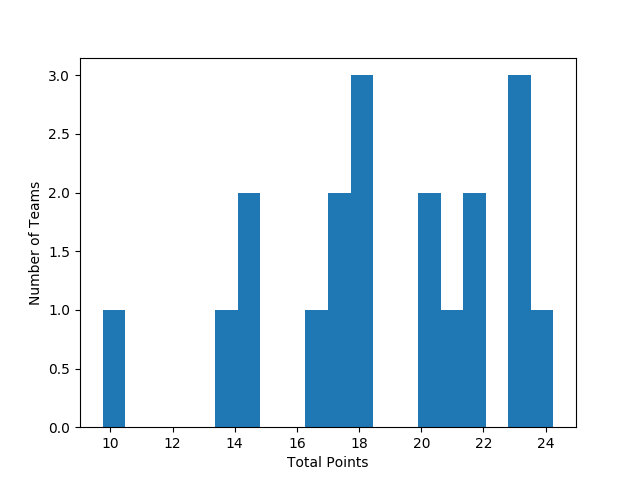
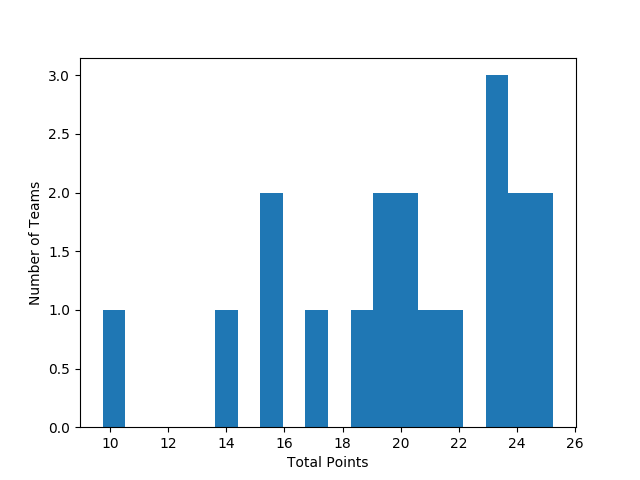
2021-2022 Bowl Pool - KSU vs. LSU and B3,B4 added

Changed region(s): [[0.375, 0.1562, 0.9062, 0.9375], [0.3438, 0.9062, 0.375, 0.9375], [0.25, 0.9062, 0.2812, 0.9375]]

diff --git a/bowl_pool/2021-2022/results.html b/bowl_pool/2021-2022/results.html
@@ -918,6 +918,31 @@ ul.auto-toc {
 <td>0.0</td>
 <td>0.0</td>
 </tr>
+<tr><td>21</td>
+<td>TEXAS BOWL</td>
+<td>Kansas State</td>
+<td>LSU</td>
+<td>3.5</td>
+<td>1.0</td>
+<td>1.0</td>
+<td>1.0</td>
+<td>1.0</td>
+<td>0.0</td>
+<td>0.0</td>
+<td>0.0</td>
+<td>1.0</td>
+<td>1.0</td>
+<td>1.0</td>
+<td>0.0</td>
+<td>1.0</td>
+<td>1.0</td>
+<td>0.0</td>
+<td>1.0</td>
+<td>0.0</td>
+<td>1.0</td>
+<td>0.0</td>
+<td>0.0</td>
+</tr>
 <tr><td>B1</td>
 <td>Who will win the National Championship?</td>
 <td>&nbsp;</td>
@@ -962,11 +987,11 @@ ul.auto-toc {
 <td>0.0</td>
 <td>0.0</td>
 <td>0.0</td>
+<td>1.0</td>
 <td>0.0</td>
 <td>0.0</td>
 <td>0.0</td>
-<td>0.0</td>
-<td>0.0</td>
+<td>1.0</td>
 </tr>
 <tr><td>B3</td>
 <td>Will Baylor hold Ole Miss to under their season average of 36 points?</td>
@@ -999,7 +1024,7 @@ ul.auto-toc {
 <td>&nbsp;</td>
 <td>&nbsp;</td>
 <td>0.0</td>
-<td>0.0</td>
+<td>1.0</td>
 <td>0.0</td>
 <td>0.0</td>
 <td>0.0</td>
@@ -1027,17 +1052,17 @@ ul.auto-toc {
 <td>0.0</td>
 <td>0.0</td>
 <td>0.0</td>
+<td>1.0</td>
+<td>1.0</td>
+<td>1.0</td>
+<td>1.0</td>
+<td>0.0</td>
+<td>1.0</td>
 <td>0.0</td>
 <td>0.0</td>
 <td>0.0</td>
-<td>0.0</td>
-<td>0.0</td>
-<td>0.0</td>
-<td>0.0</td>
-<td>0.0</td>
-<td>0.0</td>
-<td>0.0</td>
-<td>0.0</td>
+<td>1.0</td>
+<td>1.0</td>
 <td>0.0</td>
 <td>0.0</td>
 <td>0.0</td>
@@ -1073,25 +1098,25 @@ ul.auto-toc {
 <td>&nbsp;</td>
 <td>&nbsp;</td>
 <td>&nbsp;</td>
-<td><strong>23.25</strong></td>
-<td><strong>23.25</strong></td>
-<td><strong>22.0</strong></td>
-<td><strong>20.0</strong></td>
-<td><strong>14.5</strong></td>
-<td><strong>20.5</strong></td>
-<td><strong>18.25</strong></td>
-<td><strong>21.25</strong></td>
 <td><strong>24.25</strong></td>
-<td><strong>18.0</strong></td>
-<td><strong>13.75</strong></td>
-<td><strong>17.5</strong></td>
-<td><strong>22.0</strong></td>
-<td><strong>14.75</strong></td>
-<td><strong>17.5</strong></td>
-<td><strong>16.75</strong></td>
+<td><strong>25.25</strong></td>
 <td><strong>23.0</strong></td>
+<td><strong>21.0</strong></td>
+<td><strong>15.5</strong></td>
+<td><strong>21.5</strong></td>
+<td><strong>19.25</strong></td>
+<td><strong>23.25</strong></td>
+<td><strong>25.25</strong></td>
+<td><strong>20.0</strong></td>
+<td><strong>13.75</strong></td>
+<td><strong>18.5</strong></td>
+<td><strong>23.0</strong></td>
+<td><strong>15.75</strong></td>
+<td><strong>20.5</strong></td>
+<td><strong>16.75</strong></td>
+<td><strong>24.0</strong></td>
 <td><strong>9.75</strong></td>
-<td><strong>18.25</strong></td>
+<td><strong>19.25</strong></td>
 </tr>
 </tbody>
 </table>

diff --git a/bowl_pool/2021-2022/rankings.html b/bowl_pool/2021-2022/rankings.html
@@ -364,27 +364,27 @@ ul.auto-toc {
 
 
 <div class="line-block">
-<div class="line"><em>Last updated:  2022-01-05 10:43:37</em></div>
-<div class="line"><em>Last bowl scored:  SUGAR BOWL (Ole Miss vs. Baylor)</em></div>
+<div class="line"><em>Last updated:  2022-01-05 10:49:11</em></div>
+<div class="line"><em>Last bowl scored:  TEXAS BOWL (Kansas State vs. LSU)</em></div>
 </div>
 <div class="line-block">
-<div class="line">1. <strong>GlamKam 24.25</strong></div>
-<div class="line">2. <strong>#RealMamaBear 23.25</strong></div>
-<div class="line">2. <strong>Bear-in-Law 23.25</strong></div>
-<div class="line">4. <strong>The Dood 23.0</strong></div>
-<div class="line">5. Blue Orred 22.0</div>
-<div class="line">5. Panda 22.0</div>
-<div class="line">7. Gigi 21.25</div>
-<div class="line">8. <strong>Can't Stop a Badger! 20.5</strong></div>
-<div class="line">9. Bopper 20.0</div>
-<div class="line">10. D-Bo 18.25</div>
-<div class="line">10. TransferPortal 18.25</div>
-<div class="line">12. Knights of Ren 18.0</div>
-<div class="line">13. Ms. Snuffleupagus 17.5</div>
-<div class="line">13. Sweet Lou 17.5</div>
+<div class="line">1. <strong>Bear-in-Law 25.25</strong></div>
+<div class="line">1. <strong>GlamKam 25.25</strong></div>
+<div class="line">3. <strong>#RealMamaBear 24.25</strong></div>
+<div class="line">4. <strong>The Dood 24.0</strong></div>
+<div class="line">5. Gigi 23.25</div>
+<div class="line">6. Blue Orred 23.0</div>
+<div class="line">6. Panda 23.0</div>
+<div class="line">8. <strong>Can't Stop a Badger! 21.5</strong></div>
+<div class="line">9. Bopper 21.0</div>
+<div class="line">10. Sweet Lou 20.5</div>
+<div class="line">11. Knights of Ren 20.0</div>
+<div class="line">12. D-Bo 19.25</div>
+<div class="line">12. TransferPortal 19.25</div>
+<div class="line">14. Ms. Snuffleupagus 18.5</div>
 <div class="line">15. The Aggie 16.75</div>
-<div class="line">16. SaschaPicksDogs 14.75</div>
-<div class="line">17. Bumblerooski 14.5</div>
+<div class="line">16. SaschaPicksDogs 15.75</div>
+<div class="line">17. Bumblerooski 15.5</div>
 <div class="line">18. Leeerroyyy Jeennkinns!! 13.75</div>
 <div class="line">19. <strong>The Dood's Nemesis 9.75</strong></div>
 </div>

diff --git a/bowl_pool/2021-2022/index.html b/bowl_pool/2021-2022/index.html
@@ -365,8 +365,8 @@ ul.auto-toc {
 
 <p><strong>2021-2022 Bowl Pool</strong></p>
 <div class="line-block">
-<div class="line"><em>Last updated:  2022-01-05 10:43:38</em></div>
-<div class="line"><em>Last bowl scored:  SUGAR BOWL (Ole Miss vs. Baylor)</em></div>
+<div class="line"><em>Last updated:  2022-01-05 10:49:12</em></div>
+<div class="line"><em>Last bowl scored:  TEXAS BOWL (Kansas State vs. LSU)</em></div>
 </div>
 <ul class="simple">
 <li><a class="reference external" href="rankings.html">Rankings</a> (<a class="reference external" href="rankings.csv">csv</a>)</li>
